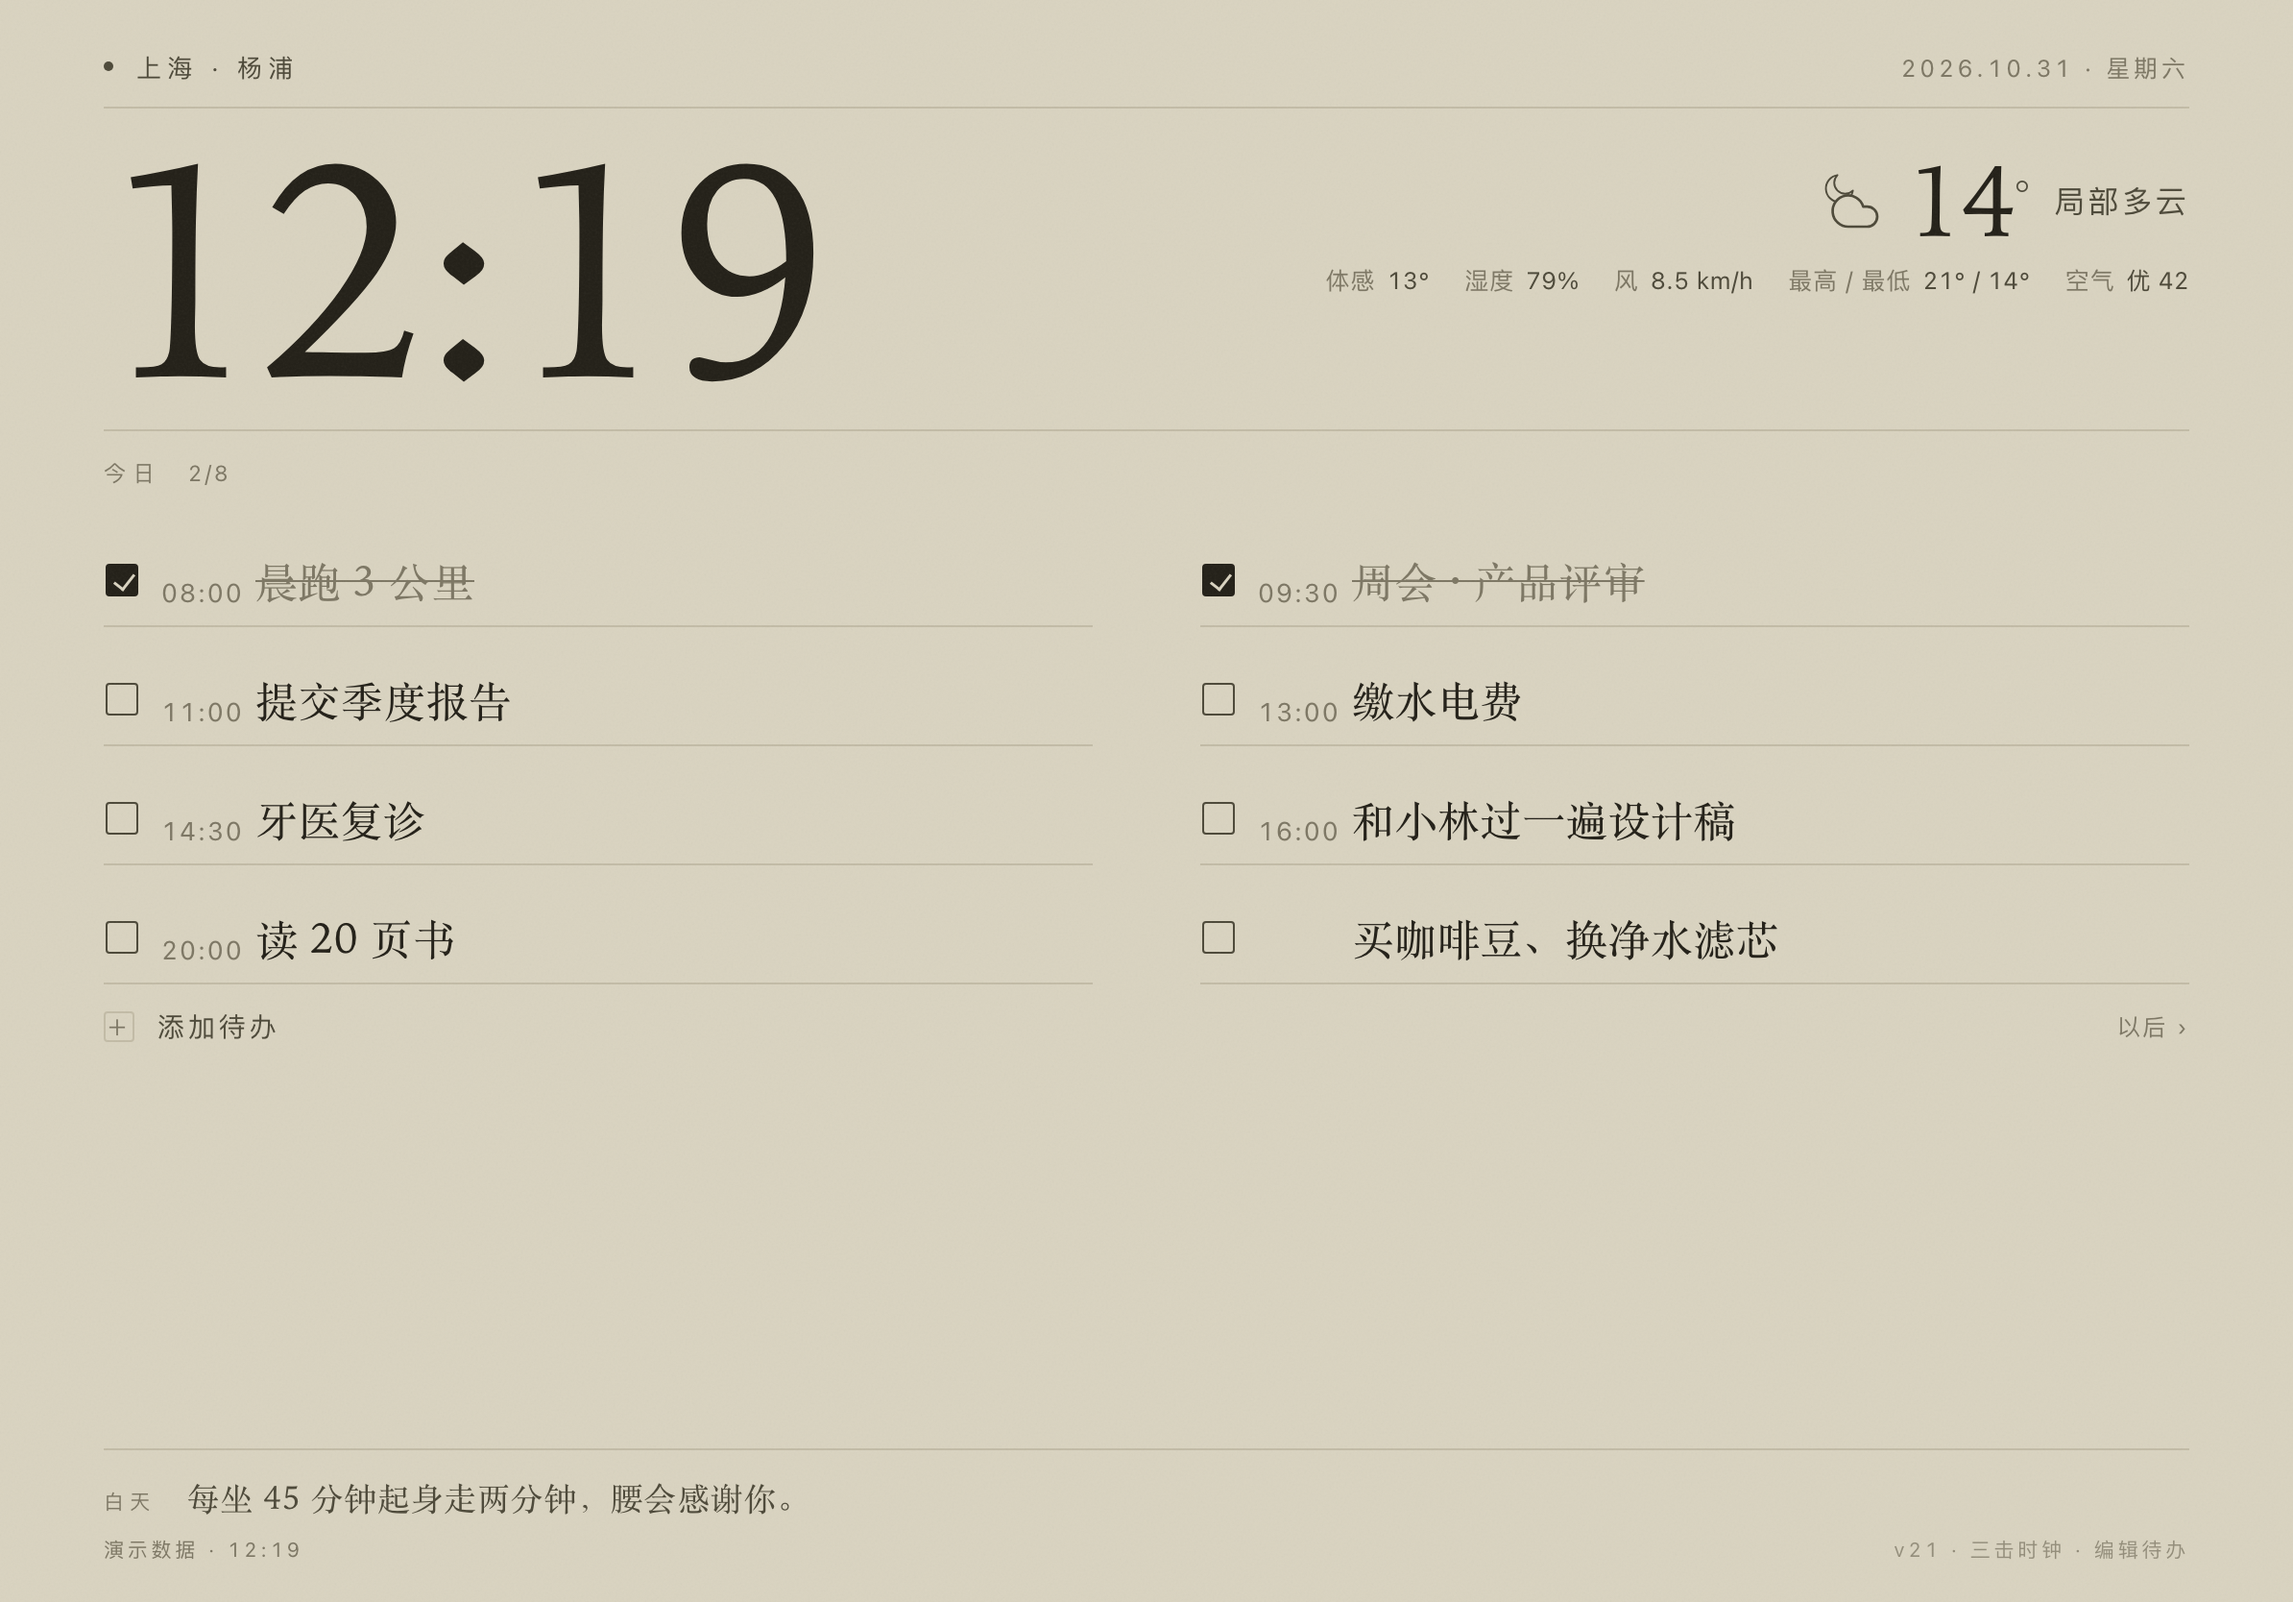
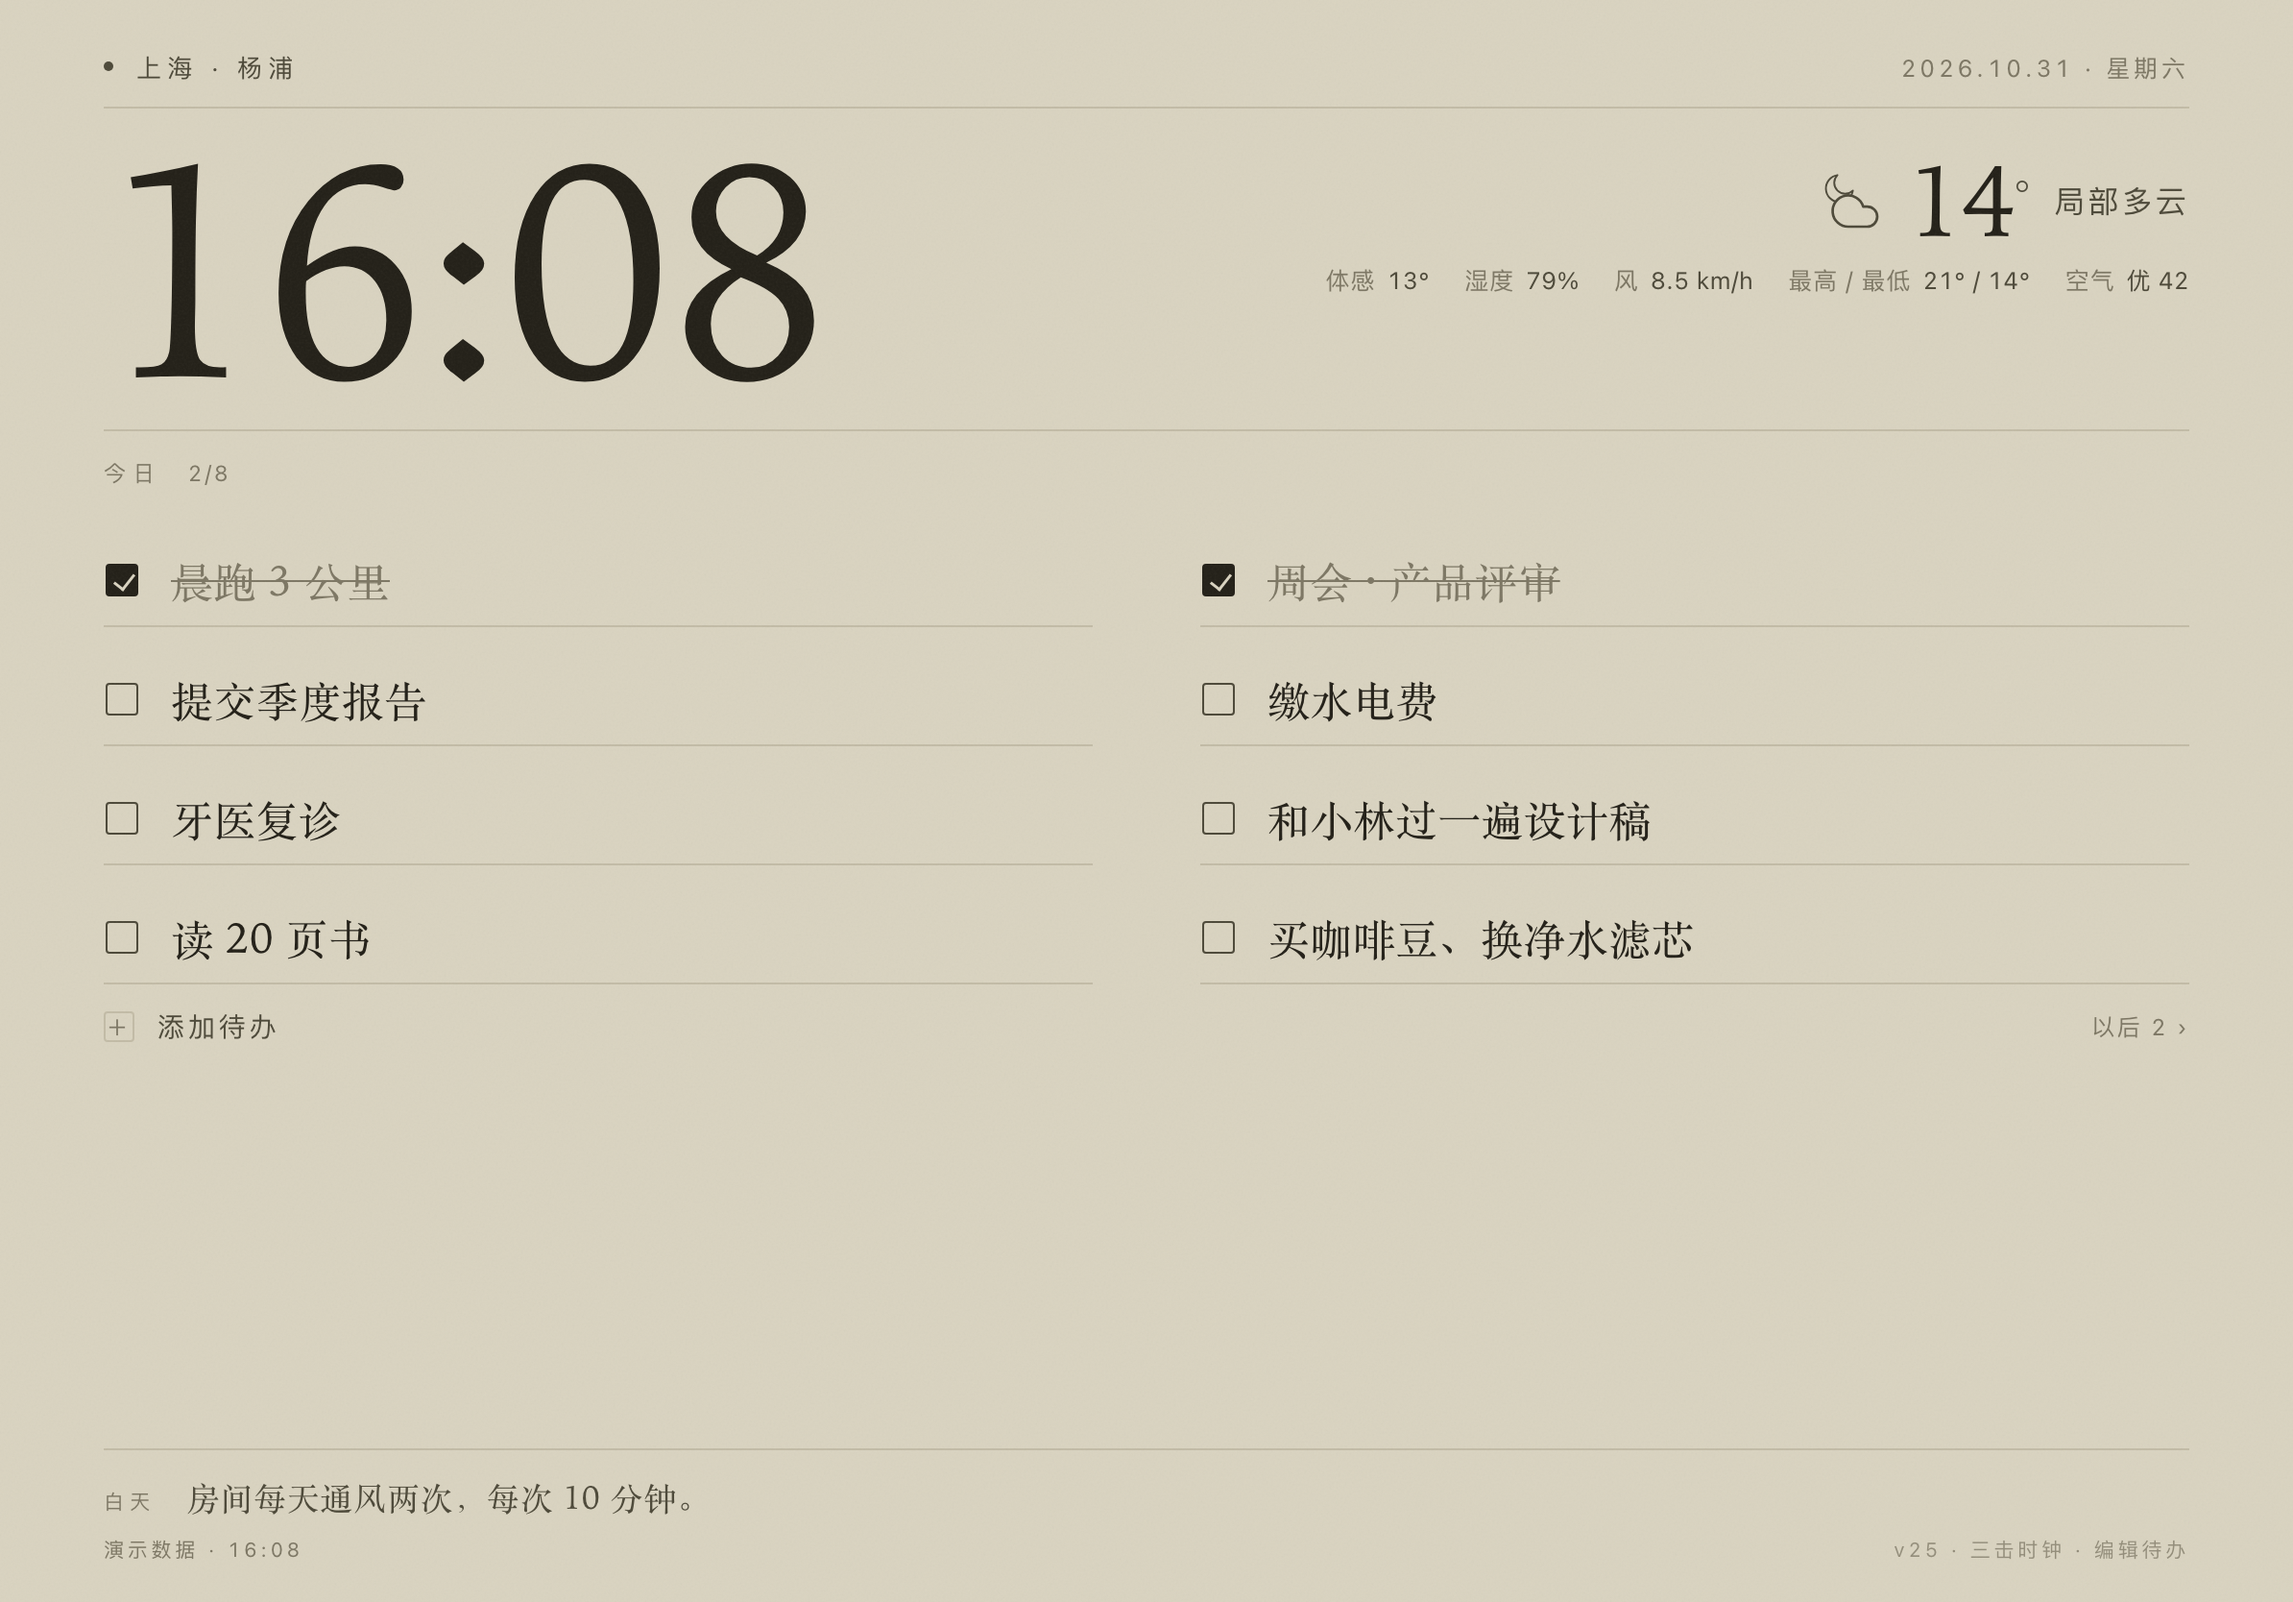
看板也去掉时间列；补上 demo 里的待办池数据（v25）

diff --git a/index.html b/index.html
@@ -136,8 +136,8 @@
     min-height:0;flex:0 1 auto;
   }
   .todo{
-    display:grid;grid-template-columns:20px 40px minmax(0,1fr);
-    align-items:end;gap:9px;
+    display:grid;grid-template-columns:20px minmax(0,1fr);
+    align-items:end;gap:14px;
     padding:0 0 9px 1px;border-bottom:1px solid var(--rule);
     cursor:default;
   }
@@ -159,10 +159,6 @@
     content:"";position:absolute;left:5.5px;top:2px;width:5px;height:9px;
     border-right:1.6px solid var(--paper);border-bottom:1.6px solid var(--paper);
     transform:rotate(38deg);
-  }
-  .todo .tm{
-    font-size:13.5px;color:var(--muted);letter-spacing:.08em;
-    font-variant-numeric:tabular-nums;white-space:nowrap;
   }
   .todo .txt{
     font-family:var(--serif);font-size:22px;line-height:1.34;letter-spacing:.01em;color:var(--ink);
@@ -720,10 +716,14 @@
       { time: "13:00", text: "缴水电费", done: false },
       { time: "",      text: "买咖啡豆、换净水滤芯", done: false },
       { time: "20:00", text: "读 20 页书", done: false }
+    ],
+    pool: [
+      { id: "p1", text: "换净水器滤芯", at: Date.now() - 3 * 86400000 },
+      { id: "p2", text: "把阳台的花架装起来", at: Date.now() - 18 * 86400000 }
     ]
   };
 
-  const BUILD = "v24";   // 改版时 +1，页脚可见，用来确认主屏 App 拿到的是哪一版
+  const BUILD = "v25";   // 改版时 +1，页脚可见，用来确认主屏 App 拿到的是哪一版
 
   const params = new URLSearchParams(location.search);
   const DEMO_MODE = params.has("demo");
@@ -1188,7 +1188,6 @@
     $("#todoList").innerHTML = shown.map(t =>
       '<li class="todo' + (t.done ? " done" : "") + '" data-id="' + t.id + '">' +
         '<span class="box" role="button" tabindex="0" aria-label="标记完成"></span>' +
-        '<span class="tm">' + esc(t.time || "") + "</span>" +
         '<span class="txt">' + esc(t.text) + "</span>" +
       "</li>"
     ).join("");
